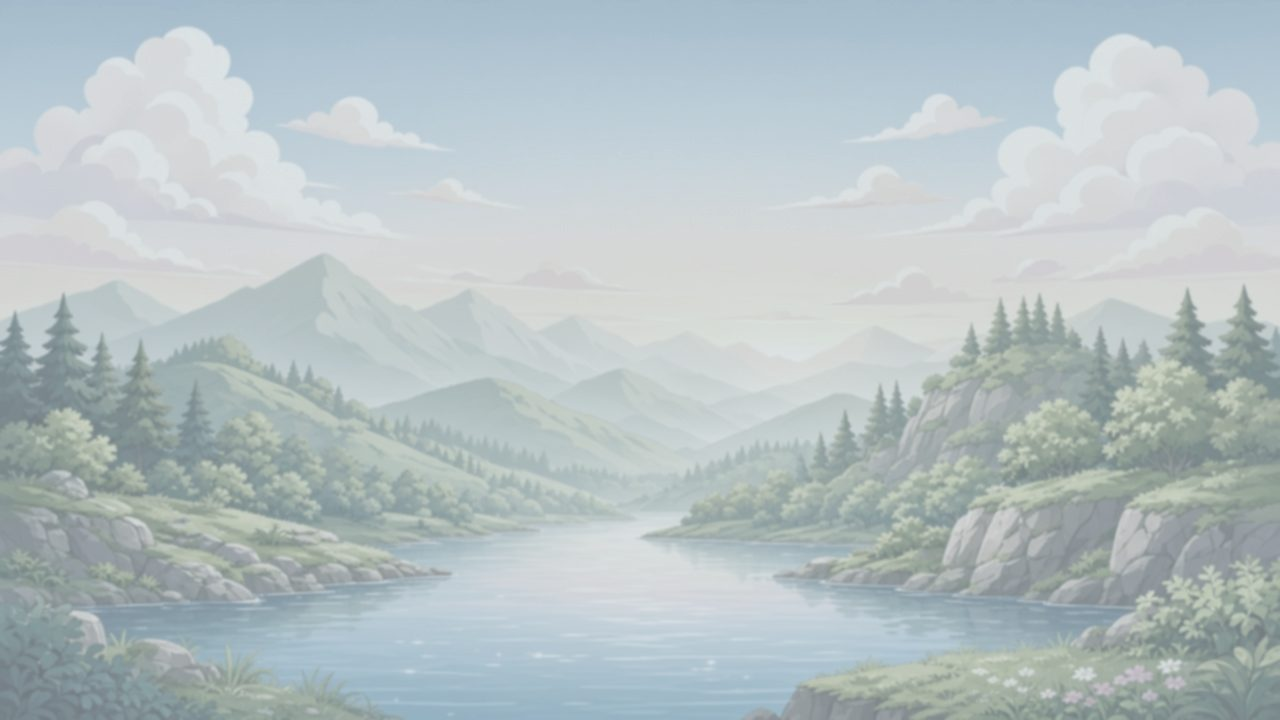
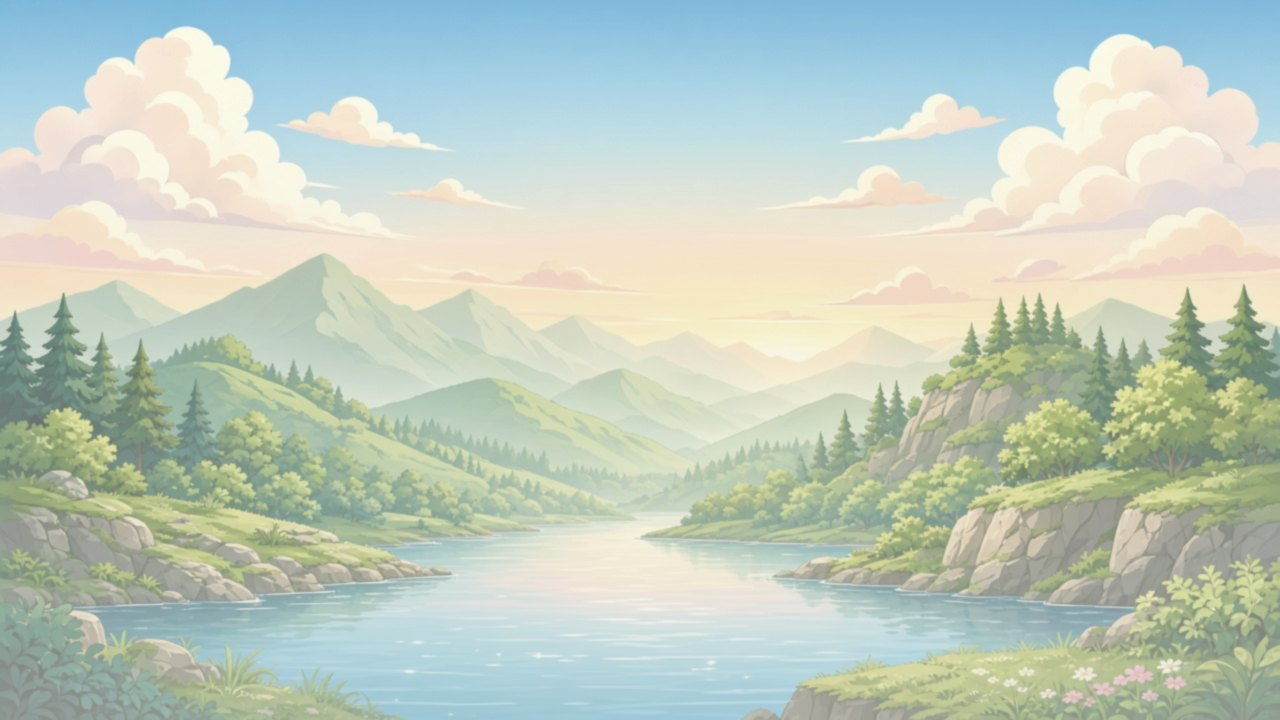
Warm fog wallpaper (no blue veil) + richer river flow
Replace blue wash with soft warm mist; restore wallpaper readability.
Enhance water tiles, layered current speeds, shore foam, and sparkles.

diff --git a/src/game/GameScene.ts b/src/game/GameScene.ts
@@ -1416,10 +1416,17 @@ export class GameScene extends Phaser.Scene {
     if (!this.water) return
     const sx = this.cameras.main.scrollX
     const t = this.time.now
-    // Stronger flow so the creek reads as a moving river.
-    snapTilePosition(this.water, sx * 0.35 + t * 0.085)
-    snapTilePosition(this.waterMid, sx * 0.4 + t * 0.11)
-    snapTilePosition(this.waterFoam, sx * 0.48 + t * 0.14)
+    // River current — layered speeds for depth (foam fastest).
+    snapTilePosition(this.water, sx * 0.28 + t * 0.12)
+    snapTilePosition(this.waterMid, sx * 0.38 + t * 0.17)
+    snapTilePosition(this.waterFoam, sx * 0.5 + t * 0.24)
+    // Soft vertical bob on mid water so the surface breathes.
+    if (this.waterMid) {
+      this.waterMid.y = 490 + Math.sin(t * 0.0022) * 1.5
+    }
+    if (this.waterFoam) {
+      this.waterFoam.y = 466 + Math.sin(t * 0.0031 + 1.2) * 1.2
+    }
     // Discrete landmarks stay in the sky band (scrollFactor 0).
     // Clouds soft-wrap; mountains drift slowly without re-tiling into a band.
     for (let i = 0; i < this.bgClouds.length; i++) {
@@ -1594,27 +1601,30 @@ export class GameScene extends Phaser.Scene {
   private drawWorld() {
     // Prefer generated wallpaper 貼圖 (pretty Flash/phone look) over hand-built mountains.
     const g = this.add.graphics().setDepth(DEPTH.SKY)
-    g.fillStyle(0x6ab4e0, 1)
+    // Soft sky under wallpaper — warm daylight, not heavy blue
+    g.fillStyle(0x9ec8e0, 1)
     g.fillRect(0, 0, WORLD_W, WORLD_H)
+    g.fillStyle(0xe8d8b8, 0.35)
+    g.fillRect(0, 120, WORLD_W, 200)
 
     this.bgClouds = []
     this.bgMounts = []
 
     if (this.textures.exists('bg-wallpaper')) {
-      // Far upper wallpaper only — heavily 淡化 so eyes stay on the road/cast.
+      // Far upper wallpaper — soft warm fog (no blue veil covering the art).
       const roadTop = GROUND_Y - 80
       this.add
-        .image(480, Math.round(roadTop * 0.4), 'bg-wallpaper')
-        .setScrollFactor(0.015, 0)
+        .image(480, Math.round(roadTop * 0.42), 'bg-wallpaper')
+        .setScrollFactor(0.018, 0)
         .setDepth(DEPTH.SKY_BAND)
-        .setDisplaySize(1000, Math.round(roadTop * 0.88))
-        .setAlpha(0.28)
-        .setTint(0xb8c8d4)
-      const wash = this.add.graphics().setScrollFactor(0).setDepth(DEPTH.SKY_BAND + 1)
-      wash.fillStyle(0xa8c0d4, 0.42)
-      wash.fillRect(0, 0, 960, roadTop)
-      wash.fillStyle(0xd2e0ea, 0.55)
-      wash.fillRect(0, roadTop - 48, 960, 52)
+        .setDisplaySize(1040, Math.round(roadTop * 0.9))
+        .setAlpha(0.72)
+      // Warm mist only near the road edge — blends into play space, not a blue wash.
+      const mist = this.add.graphics().setScrollFactor(0).setDepth(DEPTH.SKY_BAND + 1)
+      mist.fillStyle(0xf0ebe0, 0.18)
+      mist.fillRect(0, roadTop - 70, 960, 36)
+      mist.fillStyle(0xf4f0e6, 0.4)
+      mist.fillRect(0, roadTop - 40, 960, 44)
       this.placeCampsite(stageX(520))
       this.placeCampsite(stageX(2100))
       this.placeCampsite(stageX(4200))
@@ -1625,37 +1635,70 @@ export class GameScene extends Phaser.Scene {
       this.placeSparseLandmarks()
     }
 
-    // Background creek band — taller + layered so it reads as a flowing river.
+    this.buildRiverBand()
+  }
+
+  /** Layered creek under the road — flowing water + foam + sparkle. */
+  private buildRiverBand() {
     const bank = this.add.graphics().setScrollFactor(0).setDepth(DEPTH.WATER_DEEP - 1)
-    bank.fillStyle(0x5a7a48, 0.55)
-    bank.fillRect(0, 455, 960, 18)
-    bank.fillStyle(0x3a5a38, 0.4)
-    bank.fillRect(0, 468, 960, 10)
+    bank.fillStyle(0x4a6a40, 0.7)
+    bank.fillRect(0, 448, 960, 14)
+    bank.fillStyle(0x2e4a2c, 0.55)
+    bank.fillRect(0, 458, 960, 12)
+    // Wet stone lip
+    bank.fillStyle(0x6a7a68, 0.35)
+    bank.fillRect(0, 462, 960, 4)
 
     this.water = this.add
-      .tileSprite(480, 505, 960, 72, 'water-deep')
+      .tileSprite(480, 508, 960, 78, 'water-deep')
       .setScrollFactor(0)
       .setDepth(DEPTH.WATER_DEEP)
-      .setAlpha(0.95)
-    this.water.setPosition(480, 505)
+      .setAlpha(1)
+    this.water.setPosition(480, 508)
     enablePixelSprite(this.water)
     if (this.textures.exists('water-mid')) {
       this.waterMid = this.add
-        .tileSprite(480, 492, 960, 36, 'water-mid')
+        .tileSprite(480, 490, 960, 42, 'water-mid')
         .setScrollFactor(0)
         .setDepth(DEPTH.WATER_MID)
-        .setAlpha(0.7)
-      this.waterMid.setPosition(480, 492)
+        .setAlpha(0.82)
+      this.waterMid.setPosition(480, 490)
       enablePixelSprite(this.waterMid)
     }
     if (this.textures.exists('water-foam')) {
       this.waterFoam = this.add
-        .tileSprite(480, 468, 960, 22, 'water-foam')
+        .tileSprite(480, 466, 960, 26, 'water-foam')
         .setScrollFactor(0)
         .setDepth(DEPTH.WATER_FOAM)
-        .setAlpha(0.95)
-      this.waterFoam.setPosition(480, 468)
+        .setAlpha(0.9)
+      this.waterFoam.setPosition(480, 466)
       enablePixelSprite(this.waterFoam)
+    }
+    // Sun sparkles drifting on the current
+    for (let i = 0; i < 10; i++) {
+      const sp = this.add
+        .circle(
+          Phaser.Math.Between(40, 920),
+          Phaser.Math.Between(478, 530),
+          Phaser.Math.FloatBetween(1.2, 2.4),
+          0xe8f8ff,
+          Phaser.Math.FloatBetween(0.35, 0.75),
+        )
+        .setScrollFactor(0)
+        .setDepth(DEPTH.WATER_FOAM + 1)
+      this.tweens.add({
+        targets: sp,
+        x: sp.x + Phaser.Math.Between(80, 180),
+        alpha: { from: 0.15, to: 0.85 },
+        duration: Phaser.Math.Between(1600, 2800),
+        yoyo: true,
+        repeat: -1,
+        delay: i * 120,
+        ease: 'Sine.inOut',
+        onYoyo: () => {
+          if (sp.x > 980) sp.x = -20
+        },
+      })
     }
   }
 

diff --git a/src/game/worldArt.ts b/src/game/worldArt.ts
@@ -78,18 +78,19 @@ export function registerWorldArt(scene: Phaser.Scene) {
     }
   })
 
-  // Wrap-safe water: period divides tile width exactly; fully opaque (no soft-alpha seams).
+  // Wrap-safe water — richer teal creek with clear current bands + sparkles.
   paint(scene, 'water-deep', 64, 64, (set, w, h) => {
-    const deep: RGB = [28, 92, 158]
-    const midC: RGB = [48, 158, 210]
-    const lit: RGB = [90, 210, 235]
+    const deep: RGB = [18, 78, 132]
+    const midC: RGB = [36, 148, 198]
+    const lit: RGB = [110, 214, 236]
     for (let y = 0; y < h; y++) {
       const t = y / h
-      const c = t < 0.45 ? mix(lit, midC, t / 0.45) : mix(midC, deep, (t - 0.45) / 0.55)
+      const c = t < 0.4 ? mix(lit, midC, t / 0.4) : mix(midC, deep, (t - 0.4) / 0.6)
       for (let x = 0; x < w; x++) {
-        // 2 full cycles across 64px → seamless at x=0/w.
-        const wave = Math.sin((x / w) * Math.PI * 2 * 2 + t * 3) * 0.06
-        const shade = 1 + wave - t * 0.1
+        const wave =
+          Math.sin((x / w) * Math.PI * 2 * 2 + t * 4) * 0.07 +
+          Math.sin((x / w) * Math.PI * 2 * 4 + t * 2.2) * 0.03
+        const shade = 1 + wave - t * 0.12
         set(x, y, [
           Math.min(255, Math.floor(c[0] * shade)),
           Math.min(255, Math.floor(c[1] * shade)),
@@ -97,28 +98,36 @@ export function registerWorldArt(scene: Phaser.Scene) {
         ], 255)
       }
     }
-    // Specular dots — wrap-safe positions, full opacity.
-    for (let i = 0; i < 8; i++) {
-      const x = (i * 8 + 4) % w
-      set(x, 8 + (i % 4), [180, 240, 255], 255)
-      set((x + 2) % w, 24 + (i % 3), [120, 220, 250], 255)
-      set((x + 4) % w, 44 + (i % 2), [70, 170, 220], 255)
+    // Current streaks
+    for (let i = 0; i < 6; i++) {
+      const yy = 10 + i * 9
+      for (let x = 0; x < w; x++) {
+        if ((x + i * 3) % 11 < 4) set(x, yy, [160, 230, 250], 255)
+      }
     }
-    rect(set, 0, h - 4, w, 4, [18, 60, 110], 255)
+    for (let i = 0; i < 12; i++) {
+      const x = (i * 5 + 3) % w
+      set(x, 6 + (i % 5), [210, 245, 255], 255)
+      set((x + 1) % w, 20 + (i % 4), [150, 228, 250], 255)
+      set((x + 3) % w, 38 + (i % 3), [90, 190, 230], 255)
+    }
+    rect(set, 0, h - 5, w, 5, [12, 48, 92], 255)
   })
 
   paint(scene, 'water-mid', 64, 32, (set, w, h) => {
     for (let y = 0; y < h; y++) {
       const t = y / h
-      const c: RGB = [lerp(70, 36, t), lerp(175, 120, t), lerp(230, 190, t)]
+      const c: RGB = [lerp(88, 42, t), lerp(190, 130, t), lerp(236, 198, t)]
       for (let x = 0; x < w; x++) {
-        const ripple = Math.sin((x / w) * Math.PI * 2 * 2 + y * 0.5) * 6
+        const ripple =
+          Math.sin((x / w) * Math.PI * 2 * 2 + y * 0.55) * 8 +
+          Math.sin((x / w) * Math.PI * 2 * 3 - y * 0.3) * 3
         set(
           x,
           y,
           [
             Math.min(255, Math.max(0, Math.floor(c[0] + ripple))),
-            Math.min(255, Math.max(0, Math.floor(c[1] + ripple * 0.6))),
+            Math.min(255, Math.max(0, Math.floor(c[1] + ripple * 0.55))),
             Math.min(255, c[2]),
           ],
           255,
@@ -126,25 +135,29 @@ export function registerWorldArt(scene: Phaser.Scene) {
       }
     }
     for (let x = 0; x < w; x++) {
-      if ((x + 2) % 8 < 3) set(x, 4, [200, 240, 255], 255)
-      if ((x + 5) % 8 < 2) set(x, 14, [230, 250, 255], 255)
-      if (x % 8 < 2) set(x, 24, [170, 225, 250], 255)
+      if ((x + 2) % 7 < 3) set(x, 3, [220, 248, 255], 255)
+      if ((x + 5) % 7 < 2) set(x, 12, [240, 252, 255], 255)
+      if (x % 7 < 2) set(x, 22, [190, 235, 250], 255)
     }
   })
 
   paint(scene, 'water-foam', 64, 16, (set, w, h) => {
     for (let y = 0; y < h; y++) {
       for (let x = 0; x < w; x++) {
-        // Soft continuous foam — fully opaque (soft alpha seams under NEAREST).
-        // Low-contrast continuous wash — high-contrast foam bands read as vertical seams.
-        const wave = Math.sin((x / w) * Math.PI * 2 * 2 + y * 0.7) * 0.5 + 0.5
+        const wave = Math.sin((x / w) * Math.PI * 2 * 2 + y * 0.85) * 0.5 + 0.5
+        const crest = Math.sin((x / w) * Math.PI * 2 * 3 - y) * 0.5 + 0.5
         const c: RGB = [
-          Math.floor(190 + wave * 40),
-          Math.floor(225 + wave * 25),
-          Math.floor(245 + wave * 10),
+          Math.floor(200 + wave * 35 + crest * 15),
+          Math.floor(230 + wave * 20 + crest * 10),
+          Math.floor(248 + wave * 7),
         ]
         set(x, y, c, 255)
       }
+    }
+    // Shore foam dots
+    for (let x = 0; x < w; x += 4) {
+      set(x, 2, [255, 255, 255], 255)
+      set((x + 2) % w, 5, [245, 252, 255], 255)
     }
   })
 

diff --git a/src/game/MainMenuScene.ts b/src/game/MainMenuScene.ts
@@ -69,14 +69,13 @@ export class MainMenuScene extends Phaser.Scene {
     const g = this.add.graphics().setDepth(0)
     g.fillStyle(0x6ab4e0, 1)
     g.fillRect(0, 0, width, height)
-    // Far upper wallpaper — soft/淡 so menu cast stays focus
+    // Far upper wallpaper — warm fog, no blue veil
     if (this.textures.exists('bg-wallpaper')) {
       this.add
-        .image(width / 2, height * 0.28, 'bg-wallpaper')
+        .image(width / 2, height * 0.3, 'bg-wallpaper')
         .setDepth(0)
-        .setDisplaySize(width * 1.02, height * 0.52)
-        .setAlpha(0.3)
-        .setTint(0xb8c8d4)
+        .setDisplaySize(width * 1.02, height * 0.55)
+        .setAlpha(0.7)
     }
 
     if (this.textures.exists('water-deep')) {

diff --git a/src/game/LogoScene.ts b/src/game/LogoScene.ts
@@ -15,13 +15,12 @@ export class LogoScene extends Phaser.Scene {
     const g = this.add.graphics()
     g.fillStyle(0x6ab4e0, 1)
     g.fillRect(0, 0, width, height)
-    // Far upper wallpaper — soft/淡 so cast stays hero
+    // Far upper wallpaper — warm fog, no blue veil
     if (this.textures.exists('bg-wallpaper')) {
       this.add
-        .image(width / 2, height * 0.26, 'bg-wallpaper')
-        .setDisplaySize(width * 1.02, height * 0.5)
-        .setAlpha(0.3)
-        .setTint(0xb8c8d4)
+        .image(width / 2, height * 0.28, 'bg-wallpaper')
+        .setDisplaySize(width * 1.02, height * 0.52)
+        .setAlpha(0.7)
     }
 
     if (this.textures.exists('ui-noren')) {
